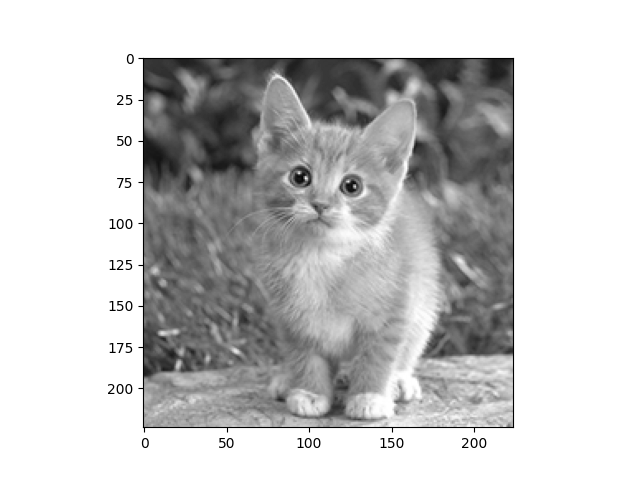
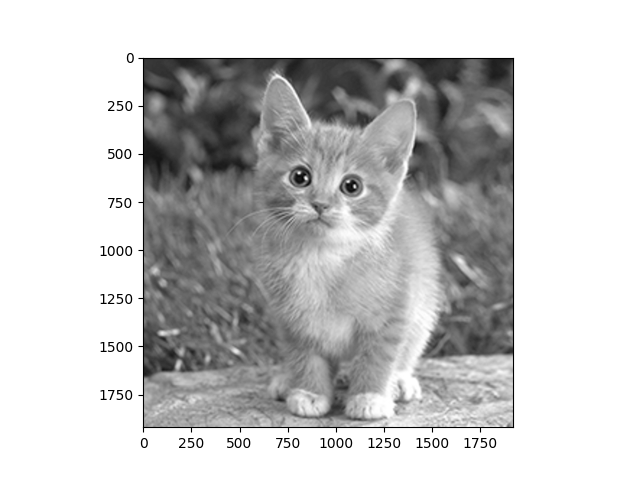
cursed

diff --git a/eml06/project/project.py b/eml06/project/project.py
@@ -34,9 +34,9 @@ class SRCNN(nn.Module):
         return x
 
 model = SRCNN(num_channels=1)
-dummy_input = torch.randn(1, 1, 224, 224)
+dummy_input = torch.randn(1, 1, 1920, 1920)
 # load the weights from pth file and convert to cpu
-model.load_state_dict(torch.load('/home/mburr/tvm/hpcexercise-1/eml06/project/srcnn_x3.pth', map_location=torch.device('cpu')))
+#model.load_state_dict(torch.load('/home/mburr/tvm/hpcexercise-1/eml06/project/srcnn_x3.pth', map_location=torch.device('cpu')))
 
 
 
@@ -48,7 +48,7 @@ torch.onnx.export(model, dummy_input, "srcnn.onnx", input_names=["input"], outpu
 onnx_model = onnx.load("srcnn.onnx")
 
 # Convert the ONNX model to Relay IR
-shape_dict = {"input": (1, 1, 224, 224)}
+shape_dict = {"input": (1, 1, 1920, 1920)}
 mod, params = relay.frontend.from_onnx(onnx_model, shape_dict)
 
 
@@ -117,13 +117,13 @@ module = runtime.GraphModule(rlib["default"](dev))
 img_url= "https://github.com/dmlc/mxnet.js/blob/main/data/cat.png?raw=true"
 img_name = "cat.png"
 img_path = download_testdata(img_url, img_name, module='data')
-img = Image.open(img_path).resize((224, 224)).convert('YCbCr')
+img = Image.open(img_path).resize((1920, 1920)).convert('L')
 img.show()
 input_image = np.array(img).astype("float32")
 input_image = np.expand_dims(input_image, axis=(0,1))
 module.set_input("input", tvm.nd.array(input_image))
 
-plt.imshow(input_image.squeeze(), cmap='ycbcr')
+plt.imshow(input_image.squeeze(), cmap='gray')
 plt.savefig('input.png')
 # Run the model
 module.run()
@@ -133,7 +133,7 @@ out = module.get_output(0).numpy()
 print("Output shape:", out.shape)
 
 # save output image
-plt.imshow(out.squeeze(), cmap='ycbcr')
+plt.imshow(out.squeeze(), cmap='gray')
 plt.savefig('output.png')
 
 ftimer = module.module.time_evaluator("run", dev, number=1, repeat=10)
